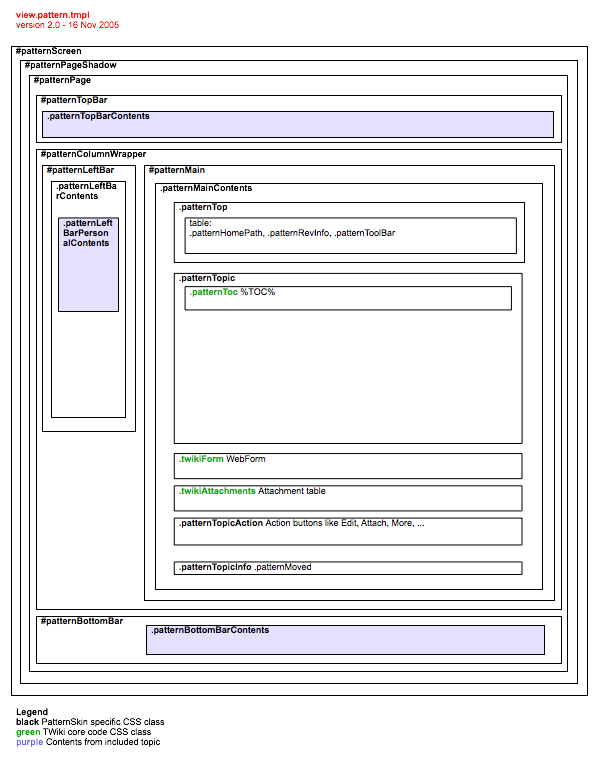
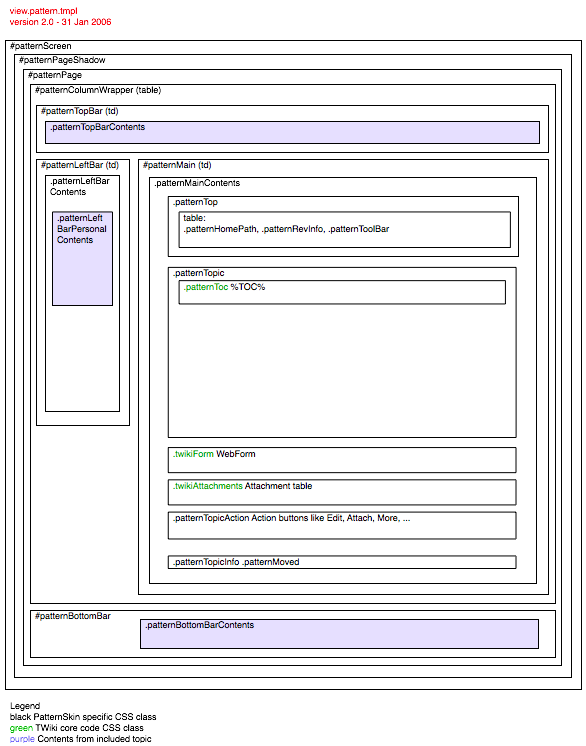
Item240: doc updates
git-svn-id: http://develop.twiki.org/svn/twiki/branches/DEVELOP/twikiplugins@8603 a00a5322-12db-0310-a70b-8735589c885e

Changed region(s): [[0.0, 0.0, 1.0, 1.0]]

diff --git a/PatternSkin/pub/TWiki/PatternSkin/style.css b/PatternSkin/pub/TWiki/PatternSkin/style.css
@@ -475,7 +475,11 @@ a:hover .twikiAccessKey {
 	font-size:100%;
 }
 #patternColumnWrapper {
-	border-width:1px 0;
+	border-width:0 0 1px 0;
+	border-style:solid;
+}
+#patternMain {
+	border-width:1px 0 0 1px;
 	border-style:solid;
 }
 .patternMainContents {
@@ -558,7 +562,7 @@ table.patternTopBarContents td {
 
 /* Left bar */
 #patternLeftBar {
-	border-width:0 1px 0 0;
+	border-width:1px 0 0 0;
 	border-style:solid;
 	overflow:hidden;
 }
@@ -586,17 +590,10 @@ table.patternTopBarContents td {
 }
 .patternLeftBarContents .patternFormHolder {
 	margin:1em 0;
-	width:100%;
-}
-.patternLeftBarContents .patternFormHolder table {
-	width:100%;
 }
 .patternLeftBarContents .patternFormHolder th {
 	padding:0 0 2px 0;
 	vertical-align:middle;
-}
-.patternLeftBarContents .patternFormHolder th.patternInputHolder {
-	width:100%;
 }
 .patternLeftBarContents .patternFormHolder th.patternFormSpacer {
 	width:1px;

diff --git a/PatternSkin/pub/TWiki/PatternSkin/print.css b/PatternSkin/pub/TWiki/PatternSkin/print.css
@@ -55,11 +55,16 @@ td.patternToolBar,
 #patternLeftBar {
 	display:none;
 }
+#patternMain {
+	border:0px;
+}
 .patternMainContents {
 	padding-left:0;
 	padding-right:0;
 }
-.patternContent .twikiAttachments,
+.patternContent .twikiAttachments {
+	display:none;
+}
 .patternContent .twikiForm {
 	padding-left:1px;
 	padding-right:0;
@@ -76,11 +81,27 @@ html>body pre {
 	margin-left:3%;
 	margin-right:3%;
 }
+a:link,
+a:visited {
+	text-decoration:none;
+	border-width:0 0 1px 0;
+	border-style:solid;
+}
 
 /* Colors */
 body {
 	background-color:#fff;
 }
+a:link,
+a:visited,
+.patternTopic a:visited {
+	color:#06c;
+	border-color:#B7CDED;
+}
+.patternTopic a:hover {
+	color:#FBF7E8;
+}
+
 #patternBottomBar {
 	background:#fff;
 	color:#000;

diff --git a/PatternSkin/pub/TWiki/PatternSkinCssCookbookCenterPage/centerpage.css b/PatternSkin/pub/TWiki/PatternSkinCssCookbookCenterPage/centerpage.css
@@ -1,24 +1,17 @@
 html body {
 	margin:0;
 	padding:0;
-	background-color:#8D929A;
+	background-color:#F0F6FA;
 }
 #patternScreen {
 	margin:0 6% 8px 6%;
 	padding:0 0 .25em 0;
 }
-#patternPageShadow {
-	padding:7px;
-}
-#patternLeftBar {
-	margin-top:2em;
-	margin-left:2em;
-}
 #patternBottomBar {
 	border:none;
 }
-.patternBottomBarContents, 
-.patternBottomBarContents a:link,
-.patternBottomBarContents a:visited {
-	color:#ccc;
+#patternColumnWrapper {
+	border-width:0 1px 1px 1px;
+	border-style:solid;
+	border-color:#E2DCC8;;
 }

diff --git a/PatternSkin/pub/TWiki/PatternSkin/colors.css b/PatternSkin/pub/TWiki/PatternSkin/colors.css
@@ -355,6 +355,7 @@ a:hover .twikiAccessKey {
 }
 #patternMain {
 	background-color:#fff; /*BG1*/
+	border-color:#E2DCC8; /*BO4*/
 }
 #patternTopBar {
 	background-color:#fff; /*BG1*/
@@ -419,8 +420,7 @@ a:hover .twikiAccessKey {
 }
 .patternLeftBarPersonal {
 	background-color:#E8EEF7; /*BG5*/
-	border-top-color:#bbb;
-	border-bottom-color:#E2DCC8;
+	border-color:#E2DCC8;
 }
 .patternLeftBarPersonal a:link,
 .patternLeftBarPersonal a:visited {

diff --git a/PatternSkin/pub/TWiki/PatternSkinCssCookbookNoTopBar/notopbar.css b/PatternSkin/pub/TWiki/PatternSkinCssCookbookNoTopBar/notopbar.css
@@ -5,7 +5,7 @@
 #patternMain {
 	top:0px;
 }
-#patternColumnWrapper {
+#patternMain {
 	border-top:0px;
 }
 #patternLeftBar {
@@ -14,7 +14,8 @@
 	background-attachment:relative;
 	background-position:1em 12px;
 	background-repeat:no-repeat;
+	border-top:0px;
 }
-.patternLeftBarPersonal {
+.patternLeftBarContents {
 	margin-top:64px; /* top bar height */
 }

diff --git a/PatternSkin/pub/TWiki/PatternSkinCssCookbookCenterPageBorder/centerpageborder.css b/PatternSkin/pub/TWiki/PatternSkinCssCookbookCenterPageBorder/centerpageborder.css
@@ -1,0 +1,20 @@
+html body {
+	margin:0;
+	padding:0;
+	background-color:#8D929A;
+}
+#patternScreen {
+	margin:0 6% 8px 6%;
+	padding:0 0 .25em 0;
+}
+#patternPageShadow {
+	padding:7px;
+}
+#patternBottomBar {
+	border:none;
+}
+.patternBottomBarContents, 
+.patternBottomBarContents a:link,
+.patternBottomBarContents a:visited {
+	color:#ccc;
+}
